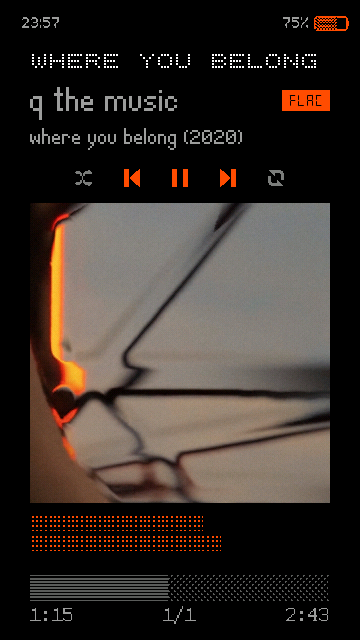
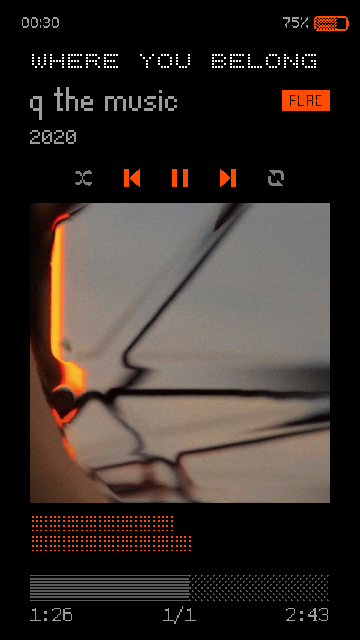
Now playing: only the year on the album line for singles
When the album name is exactly the track title - how Bandcamp and most
stores tag single-track releases - the album line shows just the year
("2020") instead of repeating the name ("where you belong (2020)").
Albums still show "Album (year)"; files without an album tag still show
"Unknown Album (year)". Uses %if(%id,=,%it), a text comparison of the
two tags (case-sensitive; a missing tag never matches).

Previews: now playing and touch zones re-captured in the simulator with
the single's year-only album line (q the music - "where you belong").

diff --git a/README.md b/README.md
@@ -14,7 +14,7 @@
 
 - **Full WPS layout** — track title / artist / album, 300×300 album-art box, dithered progress bar, peak meter, and graphic volume bar
 - **Vacuum-tube orange accents** (`#FF4D00`) on pure black — battery icon, playback buttons, peak meter, codec tag, the selected item in every list and the menu's header and footer rules.
-- **Dot-matrix track info** — the title in *SquareDotCombined* (also covers Japanese, Chinese and Korean), the artist and album in *LanaPixel*, and a solid orange codec tag (`MP3`, `FLAC`, …) in *Digital-7 Mono* at the end of the artist line
+- **Dot-matrix track info** — the title in *SquareDotCombined* (also covers Japanese, Chinese and Korean), the artist and the album + year in *LanaPixel* (only the year for a single, when the album name is the same as the title), and a solid orange codec tag (`MP3`, `FLAC`, …) in *Digital-7 Mono* at the end of the artist line
 - **Tactile progress bar** — tap it to jump, or drag along it and lift to seek, with a finger-sized touch zone around the bar
 - **Touch transport** — small shuffle · previous · play/pause · next · repeat buttons (16–18 px glyphs, 48 px apart) centred under the track info; shuffle and repeat are grey when off and turn orange when on
 - **Custom header** — clock on the left, battery percentage + 11-frame battery icon on the right, all drawn by the skin (status bar disabled)
